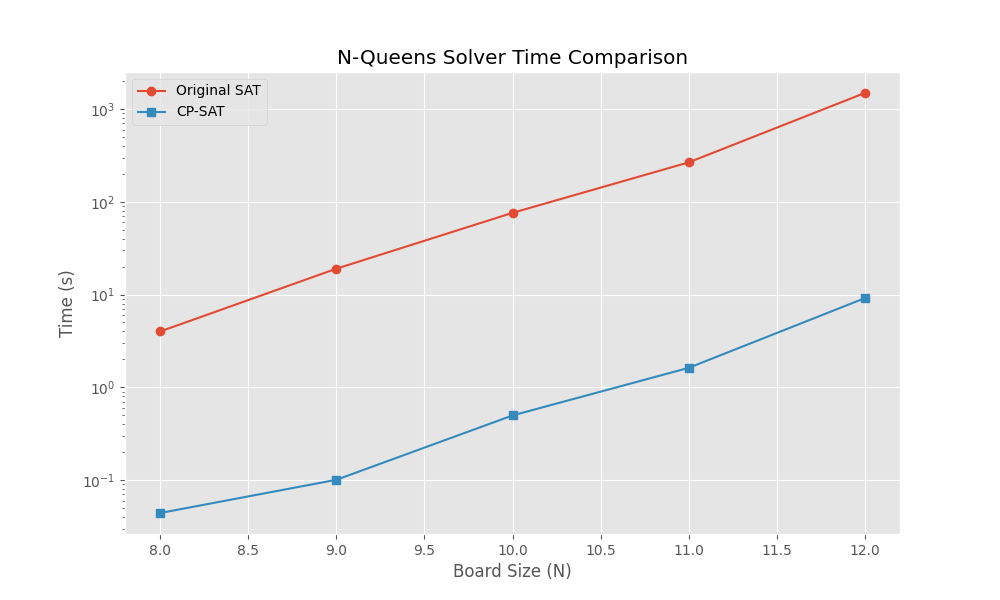
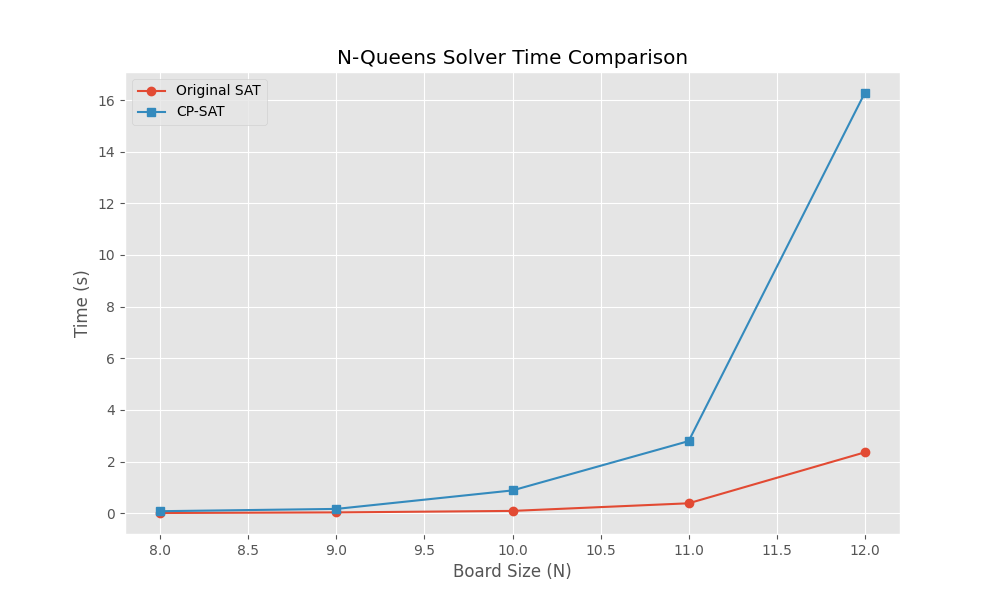
some changes to comparison, added plots

diff --git a/sat/comparison.py b/sat/comparison.py
@@ -2,13 +2,15 @@ import os
 import matplotlib.pyplot as plt
 from n_queens_original_SAT import original_SAT_solver
 from n_queens_cpSAT import cp_SAT_solver
+from ortools.constraint_solver import pywrapcp
 
 def main():
+
     # Configure plot style
     plt.style.use('ggplot')
     
     # Define board sizes to test
-    sizes = range(8, 10)
+    sizes = range(8, 13)
     
     # Data structures for statistics
     stats = {
@@ -18,30 +20,19 @@ def main():
     
     # Collect data
     for size in sizes:
-        try:
-            print(f"\nTesting board size: {size}x{size}")
-            
-            # Get stats from original solver
-            orig_failures, orig_branches, orig_time, orig_solutions = original_SAT_solver(size)
-            
-            # Get stats from CP-SAT solver
-            cp_conflicts, cp_branches, cp_time, cp_solutions = cp_SAT_solver(size)
-            
-            # Store statistics
-            stats['original']['time'].append(orig_time)
-            stats['original']['solutions'].append(orig_solutions)
-            stats['cp']['time'].append(cp_time)
-            stats['cp']['solutions'].append(cp_solutions)
-            
-        except Exception as e:
-            print(f"Error processing size {size}: {str(e)}")
-            break
+        
+        # Get stats from original solver
+        orig_failures, orig_branches, orig_time, orig_solutions = original_SAT_solver(size)
+        orig_time = orig_time/1000  #convert to seconds
 
-    # Verify data before plotting
-    if not stats['original']['time'] or not stats['cp']['time']:
-        print("Error: No data collected")
-        return
-    
+        # Get stats from CP-SAT solver
+        cp_conflicts, cp_branches, cp_time, cp_solutions = cp_SAT_solver(size)
+        
+        # Store statistics
+        stats['original']['time'].append(orig_time)
+        stats['original']['solutions'].append(orig_solutions)
+        stats['cp']['time'].append(cp_time)
+        stats['cp']['solutions'].append(cp_solutions)
 
     # Time comparison plot
     plt.figure(figsize=(10, 6))
@@ -54,23 +45,32 @@ def main():
     plt.title("N-Queens Solver Time Comparison")
     plt.legend()
     plt.grid(True)
-    plt.yscale('log')
-    plt.savefig('time_comparison.png')
+    plt.savefig('pics/time_comparison.png')
     plt.show()
 
-    # Solutions comparison plot
+    #no. solutions cp-sat solver
     plt.figure(figsize=(10, 6))
     plt.plot(sizes[:len(stats['cp']['solutions'])], 
              stats['cp']['solutions'], 's-', label="CP-SAT")
-    plt.plot(sizes[:len(stats['original']['solutions'])], 
-             stats['original']['solutions'], 'o-', label="Original SAT")
     plt.xlabel("Board Size (N)")
     plt.ylabel("Number of Solutions")
     plt.title("N-Queens Solutions Found")
     plt.legend()
     plt.grid(True)
-    plt.yscale('log')
-    plt.savefig('solutions_comparison.png')
+    plt.savefig('pics/n_solutions_cp_sat.png')
+    plt.show()
+
+
+    #no. solutions original solver
+    plt.figure(figsize=(10, 6))
+    plt.plot(sizes[:len(stats['original']['solutions'])], 
+             stats['original']['solutions'], 'o-', label="Original SAT", color='blue')
+    plt.xlabel("Board Size (N)")
+    plt.ylabel("Number of Solutions")
+    plt.title("N-Queens Solutions Found")
+    plt.legend()
+    plt.grid(True)
+    plt.savefig('pics/n_solutions_original.png')
     plt.show()
 
 if __name__ == "__main__":

diff --git a/sat/n_queens_cpSAT.py b/sat/n_queens_cpSAT.py
@@ -38,7 +38,7 @@ class NQueenSolutionPrinter(cp_model.CpSolverSolutionCallback):
 
 
 
-def cp_SAT_solver(board_size: int) -> None:
+def cp_SAT_solver(board_size: int):
     # Creates the solver.
     model = cp_model.CpModel()
 
@@ -60,7 +60,6 @@ def cp_SAT_solver(board_size: int) -> None:
     solution_printer = NQueenSolutionPrinter(queens)
     solver.parameters.enumerate_all_solutions = True
     solver.solve(model, solution_printer)
+    print(solver.wall_time)
 
-    # Statistics.
-    print('Done in %f seconds' % solver.WallTime())
     return solver.num_conflicts, solver.num_branches, solver.wall_time, solution_printer.solution_count

diff --git a/sat/n_queens_original_SAT.py b/sat/n_queens_original_SAT.py
@@ -1,6 +1,7 @@
 """OR-Tools solution to the N-queens problem."""
 import sys
 from ortools.constraint_solver import pywrapcp
+from ortools.sat.python import cp_model
 
 
 def original_SAT_solver(board_size):
